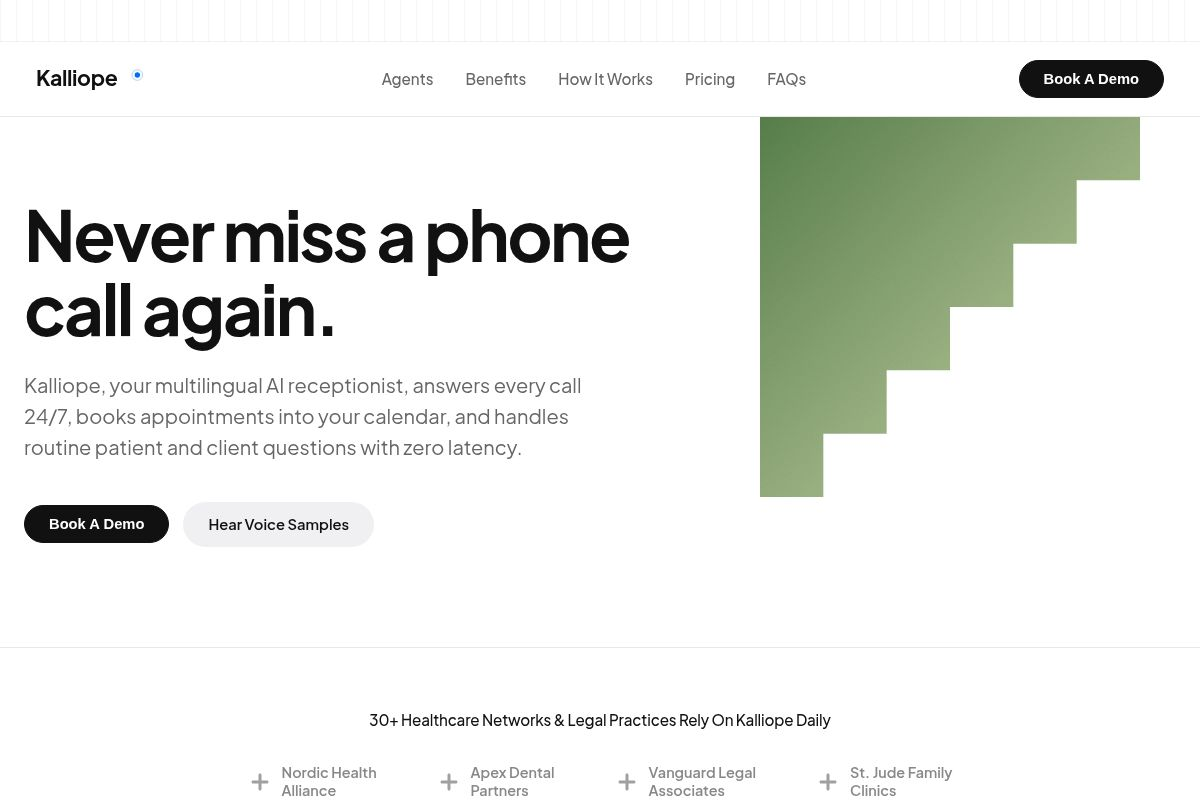
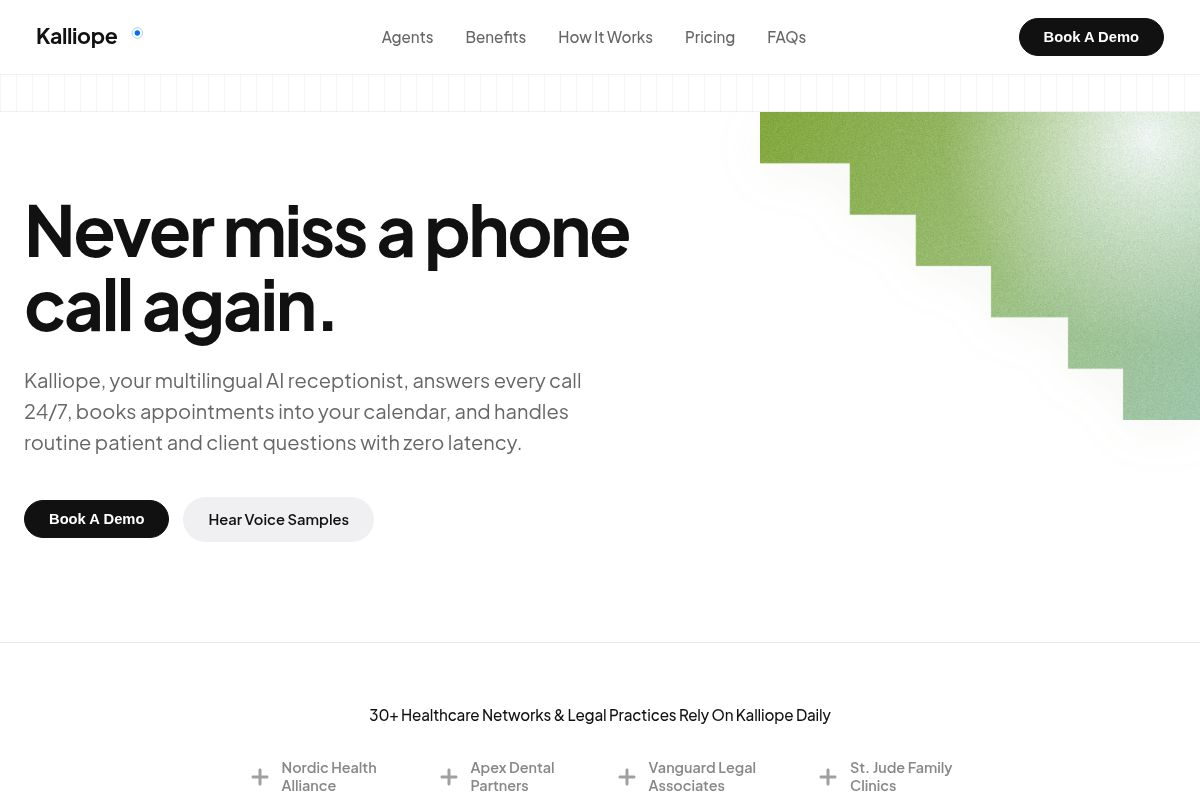
fix(kalliope): match exact stepped gradient with specular light flare and stipple grain texture

diff --git a/library/websites/kalliope/index.html b/library/websites/kalliope/index.html
@@ -61,13 +61,14 @@
     .pinstripe-band {
       background: repeating-linear-gradient(
         90deg,
-        rgba(0, 0, 0, 0.03) 0px,
-        rgba(0, 0, 0, 0.03) 1px,
+        rgba(0, 0, 0, 0.035) 0px,
+        rgba(0, 0, 0, 0.035) 1px,
         transparent 1px,
         transparent 16px
       );
-      height: 42px;
+      height: 38px;
       width: 100%;
+      border-top: 1px solid rgba(0, 0, 0, 0.05);
       border-bottom: 1px solid rgba(0, 0, 0, 0.05);
     }
     .pinstripe-band.bottom {
@@ -81,10 +82,9 @@
       position: sticky;
       top: 0;
       z-index: 100;
-      background: rgba(255, 255, 255, 0.95);
+      background: rgba(255, 255, 255, 0.96);
       backdrop-filter: blur(12px);
       -webkit-backdrop-filter: blur(12px);
-      border-bottom: 1px solid var(--border-color);
       padding: 18px 36px;
     }
     .header-inner {
@@ -161,22 +161,27 @@
     /* Hero Section */
     .hero-section {
       position: relative;
-      padding: 80px 0 100px;
+      padding: 0 0 100px;
       overflow: hidden;
+    }
+    .hero-container {
+      position: relative;
     }
     .hero-stepped-graphic {
       position: absolute;
       top: 0;
-      right: 5%;
-      width: 380px;
+      right: 0;
+      width: 440px;
       height: auto;
-      opacity: 0.95;
       pointer-events: none;
+      z-index: 1;
+      filter: drop-shadow(0 10px 25px rgba(100, 140, 70, 0.06));
     }
     .hero-content {
       max-width: 660px;
       position: relative;
       z-index: 2;
+      padding-top: 80px;
     }
     .hero-headline {
       font-size: clamp(3.2rem, 5.8vw, 5.2rem);
@@ -679,9 +684,6 @@
 </head>
 <body>
 
-  <!-- Fine Pinstripe Header Band -->
-  <div class="pinstripe-band"></div>
-
   <!-- Header -->
   <header class="site-header">
     <div class="header-inner">
@@ -705,13 +707,16 @@
     </div>
   </header>
 
+  <!-- Fine Pinstripe Header Band (matching Nordic reference below header) -->
+  <div class="pinstripe-band"></div>
+
   <main>
     <!-- Hero Section -->
     <section class="hero-section">
-      <!-- Signature Stepped Pyramid Graphic from Nordic reference -->
-      <img src="assets/stepped-pyramid.svg" alt="" class="hero-stepped-graphic" />
+      <div class="container hero-container">
+        <!-- Signature Stepped Gradient Graphic from Nordic reference -->
+        <img src="assets/hero-stepped-gradient.png" alt="" class="hero-stepped-graphic" />
 
-      <div class="container">
         <div class="hero-content">
           <h1 class="hero-headline">
             Never miss a phone call again.
@@ -914,7 +919,7 @@
           </div>
 
           <div>
-            <img src="assets/stepped-pyramid.svg" alt="" class="quote-stepped-graphic" />
+            <img src="assets/quote-stepped-gradient.png" alt="" class="quote-stepped-graphic" />
           </div>
         </div>
       </div>
